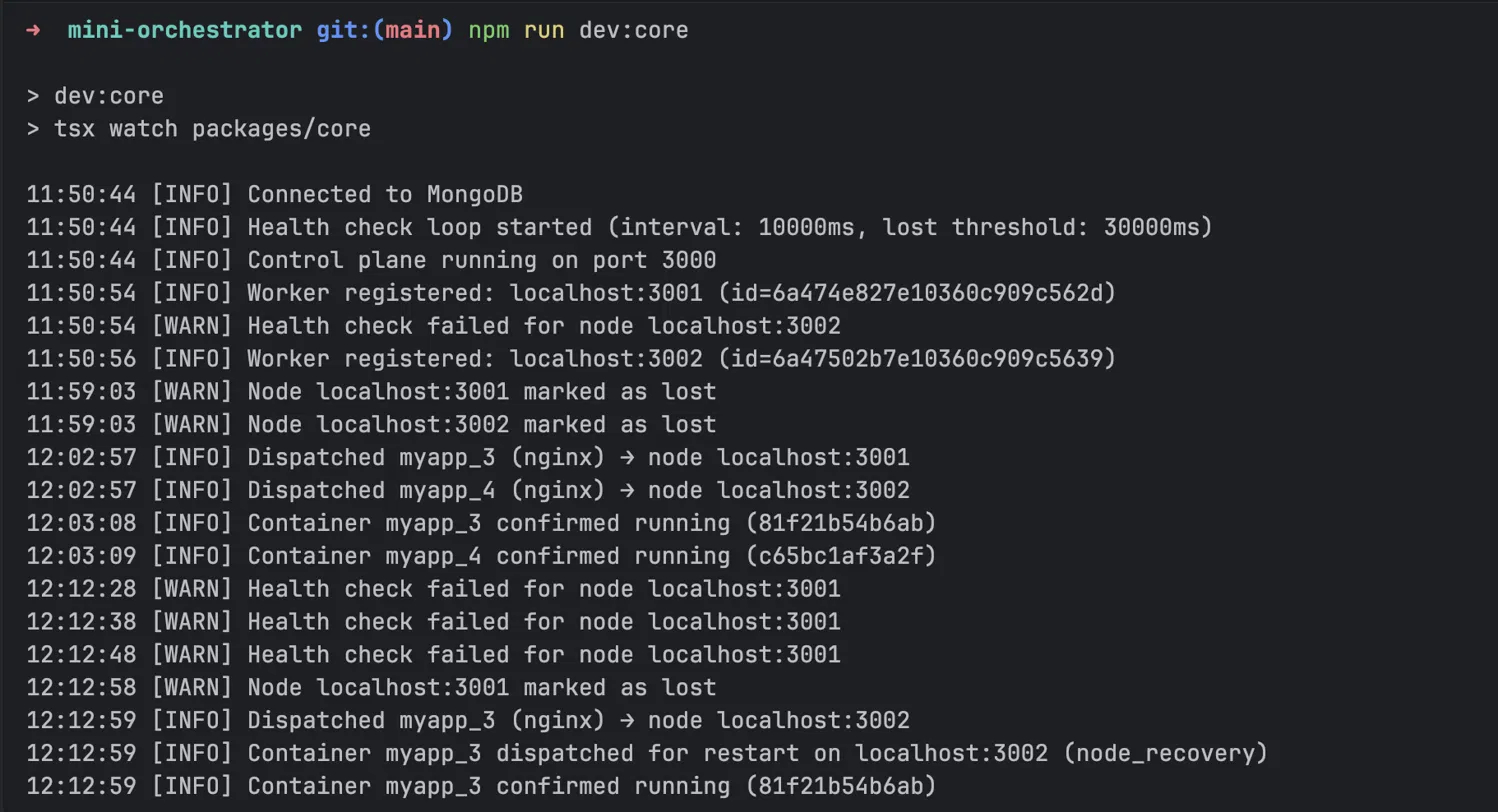
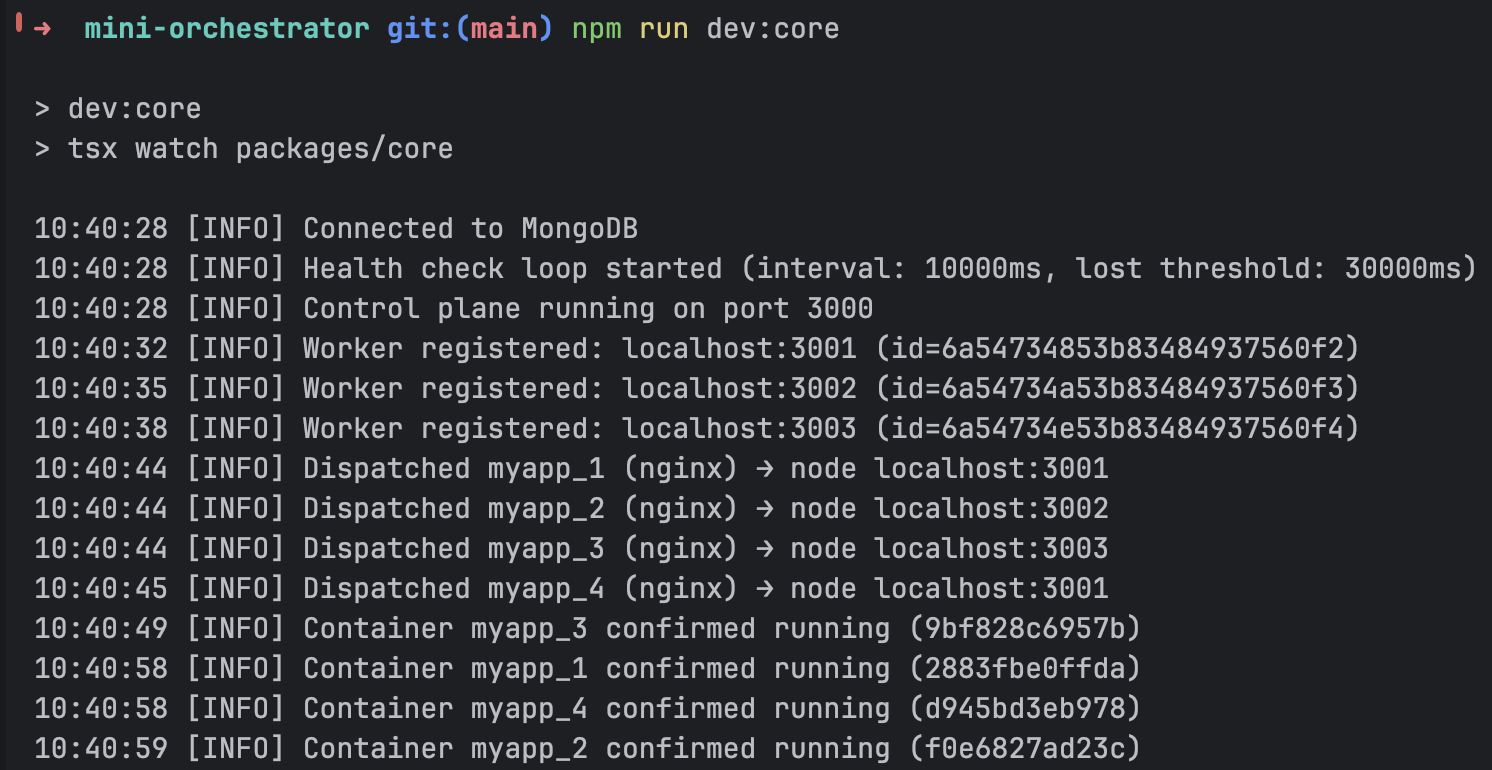
fix: update readme

Changed region(s): [[0.0, 0.0935, 0.9866, 0.9974], [0.0, 0.0, 0.555, 0.0623], [0.7399, 0.2494, 0.8016, 0.3117]]

diff --git a/README.md b/README.md
@@ -7,7 +7,7 @@ A lightweight container orchestration system built from scratch. It schedules Do
 ```
 ┌─────────────────────────────────────────────────────┐
 │                      CLI                            │
-│   deploy / ps / scale / kill / logs / nodes         │
+│   deploy / ps / scale / kill / prune / logs / nodes │
 └───────────────────────┬─────────────────────────────┘
                         │ HTTP
 ┌───────────────────────▼─────────────────────────────┐
@@ -34,13 +34,14 @@ A lightweight container orchestration system built from scratch. It schedules Do
 
 ## How it works
 
-1. **Workers register** with the control plane on startup and send a heartbeat every 10 seconds with their container count and resource usage.
+1. **Workers register** with the control plane on startup and send a heartbeat every 10 seconds with their memory usage. Container counts and load are computed live from MongoDB at read/schedule time, never cached on the worker.
 2. **Deploy** picks the worker with the fewest running containers (bin-packing), sends a fire-and-forget dispatch, and records the container as `pending` in MongoDB. No waiting for image pulls.
 3. **Health loop** runs every 10 seconds on the control plane:
    - Promotes `pending` containers to `running` once the worker reports them by name.
    - Detects workers that stopped heartbeating and marks them `lost`.
    - Reschedules orphaned containers from lost nodes onto healthy ones.
    - Detects crashed containers on active nodes and restarts them (up to `MAX_RESTART_COUNT`).
+   - Reaps containers still physically running on a node that the database no longer tracks there — e.g. leftovers from a reschedule whose kill couldn't reach the node while it was down, discovered once it reconnects.
 
 ## Getting started
 
@@ -63,7 +64,7 @@ cp .env.example .env
 
 ### Running locally
 
-Open three terminals:
+Open a few terminals:
 
 ```bash
 # Terminal 1 — control plane
@@ -74,13 +75,16 @@ npm run dev:worker
 
 # Terminal 3 — second worker (optional)
 WORKER_PORT=3002 npm run dev:worker
+
+# Terminal 4 — third worker (optional)
+WORKER_PORT=3003 npm run dev:worker
 ```
 
 The control plane boots, connects to MongoDB, and starts the health loop. Workers register themselves automatically on startup.
 
 ![Control plane startup and health loop in action](./docs/control-plane-logs.png)
 
-*The logs show two workers registering, a node going offline (`marked as lost`), and a container being automatically rescheduled to the surviving worker (`node_recovery`).*
+*The logs show three workers registering, four containers being dispatched across them, and each one being confirmed `running` once the health loop sees it reported by name.*
 
 ## CLI usage
 
@@ -97,6 +101,9 @@ npx tsx packages/cli/src/index.ts scale --name myapp --replicas 4
 # Kill a container by ID
 npx tsx packages/cli/src/index.ts kill <container-id>
 
+# Remove stopped/dead containers from the list
+npx tsx packages/cli/src/index.ts prune
+
 # Tail live logs
 npx tsx packages/cli/src/index.ts logs <container-id>
 
@@ -104,9 +111,13 @@ npx tsx packages/cli/src/index.ts logs <container-id>
 npx tsx packages/cli/src/index.ts nodes
 ```
 
-![ps and nodes output](./docs/cli-demo.png)
+![ps output](./docs/ps-demo.png)
 
-*`ps` shows container status across nodes — `pending` means the image is still being pulled, `running` means the health loop has confirmed it. `nodes` shows live CPU, memory, and container counts per worker.*
+*`ps` shows container status across nodes — `pending` means the image is still being pulled, `running` means the health loop has confirmed it by name. Stopped and dead containers stick around here until you `prune` them.*
+
+![nodes output](./docs/nodes-demo.png)
+
+*`nodes` shows live container counts and memory usage per worker, computed straight from MongoDB and each worker's own Docker stats rather than a cached, worker-reported value.*
 
 ### CLI options
 
@@ -116,6 +127,7 @@ npx tsx packages/cli/src/index.ts nodes
 | `ps` | `--status`, `--group` | List containers (filterable) |
 | `scale` | `--name`, `--replicas` | Scale a group up or down |
 | `kill` | `<id>` | Stop and remove a container |
+| `prune` | — | Remove stopped/dead containers from the list |
 | `logs` | `<id>` | Stream live container logs |
 | `nodes` | — | List worker nodes and their load |
 
@@ -153,19 +165,19 @@ This starts one control plane and two workers. Workers wait for the control plan
 packages/
   core/       Control plane (Express + Mongoose)
     src/
-      api/          REST handlers (deploy, scale, kill, logs, metrics, nodes)
+      api/          REST handlers (deploy, containers/prune, scale, logs, metrics, nodes)
       db/models/    Mongoose schemas (Container, Node, Event)
-      scheduler/    Node picker + HTTP dispatch to workers
-      health/       Health loop (crash recovery, node recovery)
+      scheduler/    Node picker + HTTP dispatch to workers (pickNode, dispatchRun/dispatchKill)
+      health/       Health loop (crash recovery, node recovery, orphan reaping)
       worker-registry/  Heartbeat + registration handlers
 
   worker/     Worker node (Express + Dockerode)
     src/
       api/          REST handlers (run, kill, logs, stats, health)
-      docker/       Dockerode wrappers (pull, run, kill, stats)
+      docker/       Dockerode wrappers (pull, run, kill, stats) + per-worker container labeling
       heartbeat/    Periodic heartbeat to control plane
 
   cli/        Command-line interface (Commander + Chalk)
     src/
-      commands/     deploy, ps, kill, scale, nodes, logs
+      commands/     deploy, ps, kill, prune, scale, nodes, logs
 ```